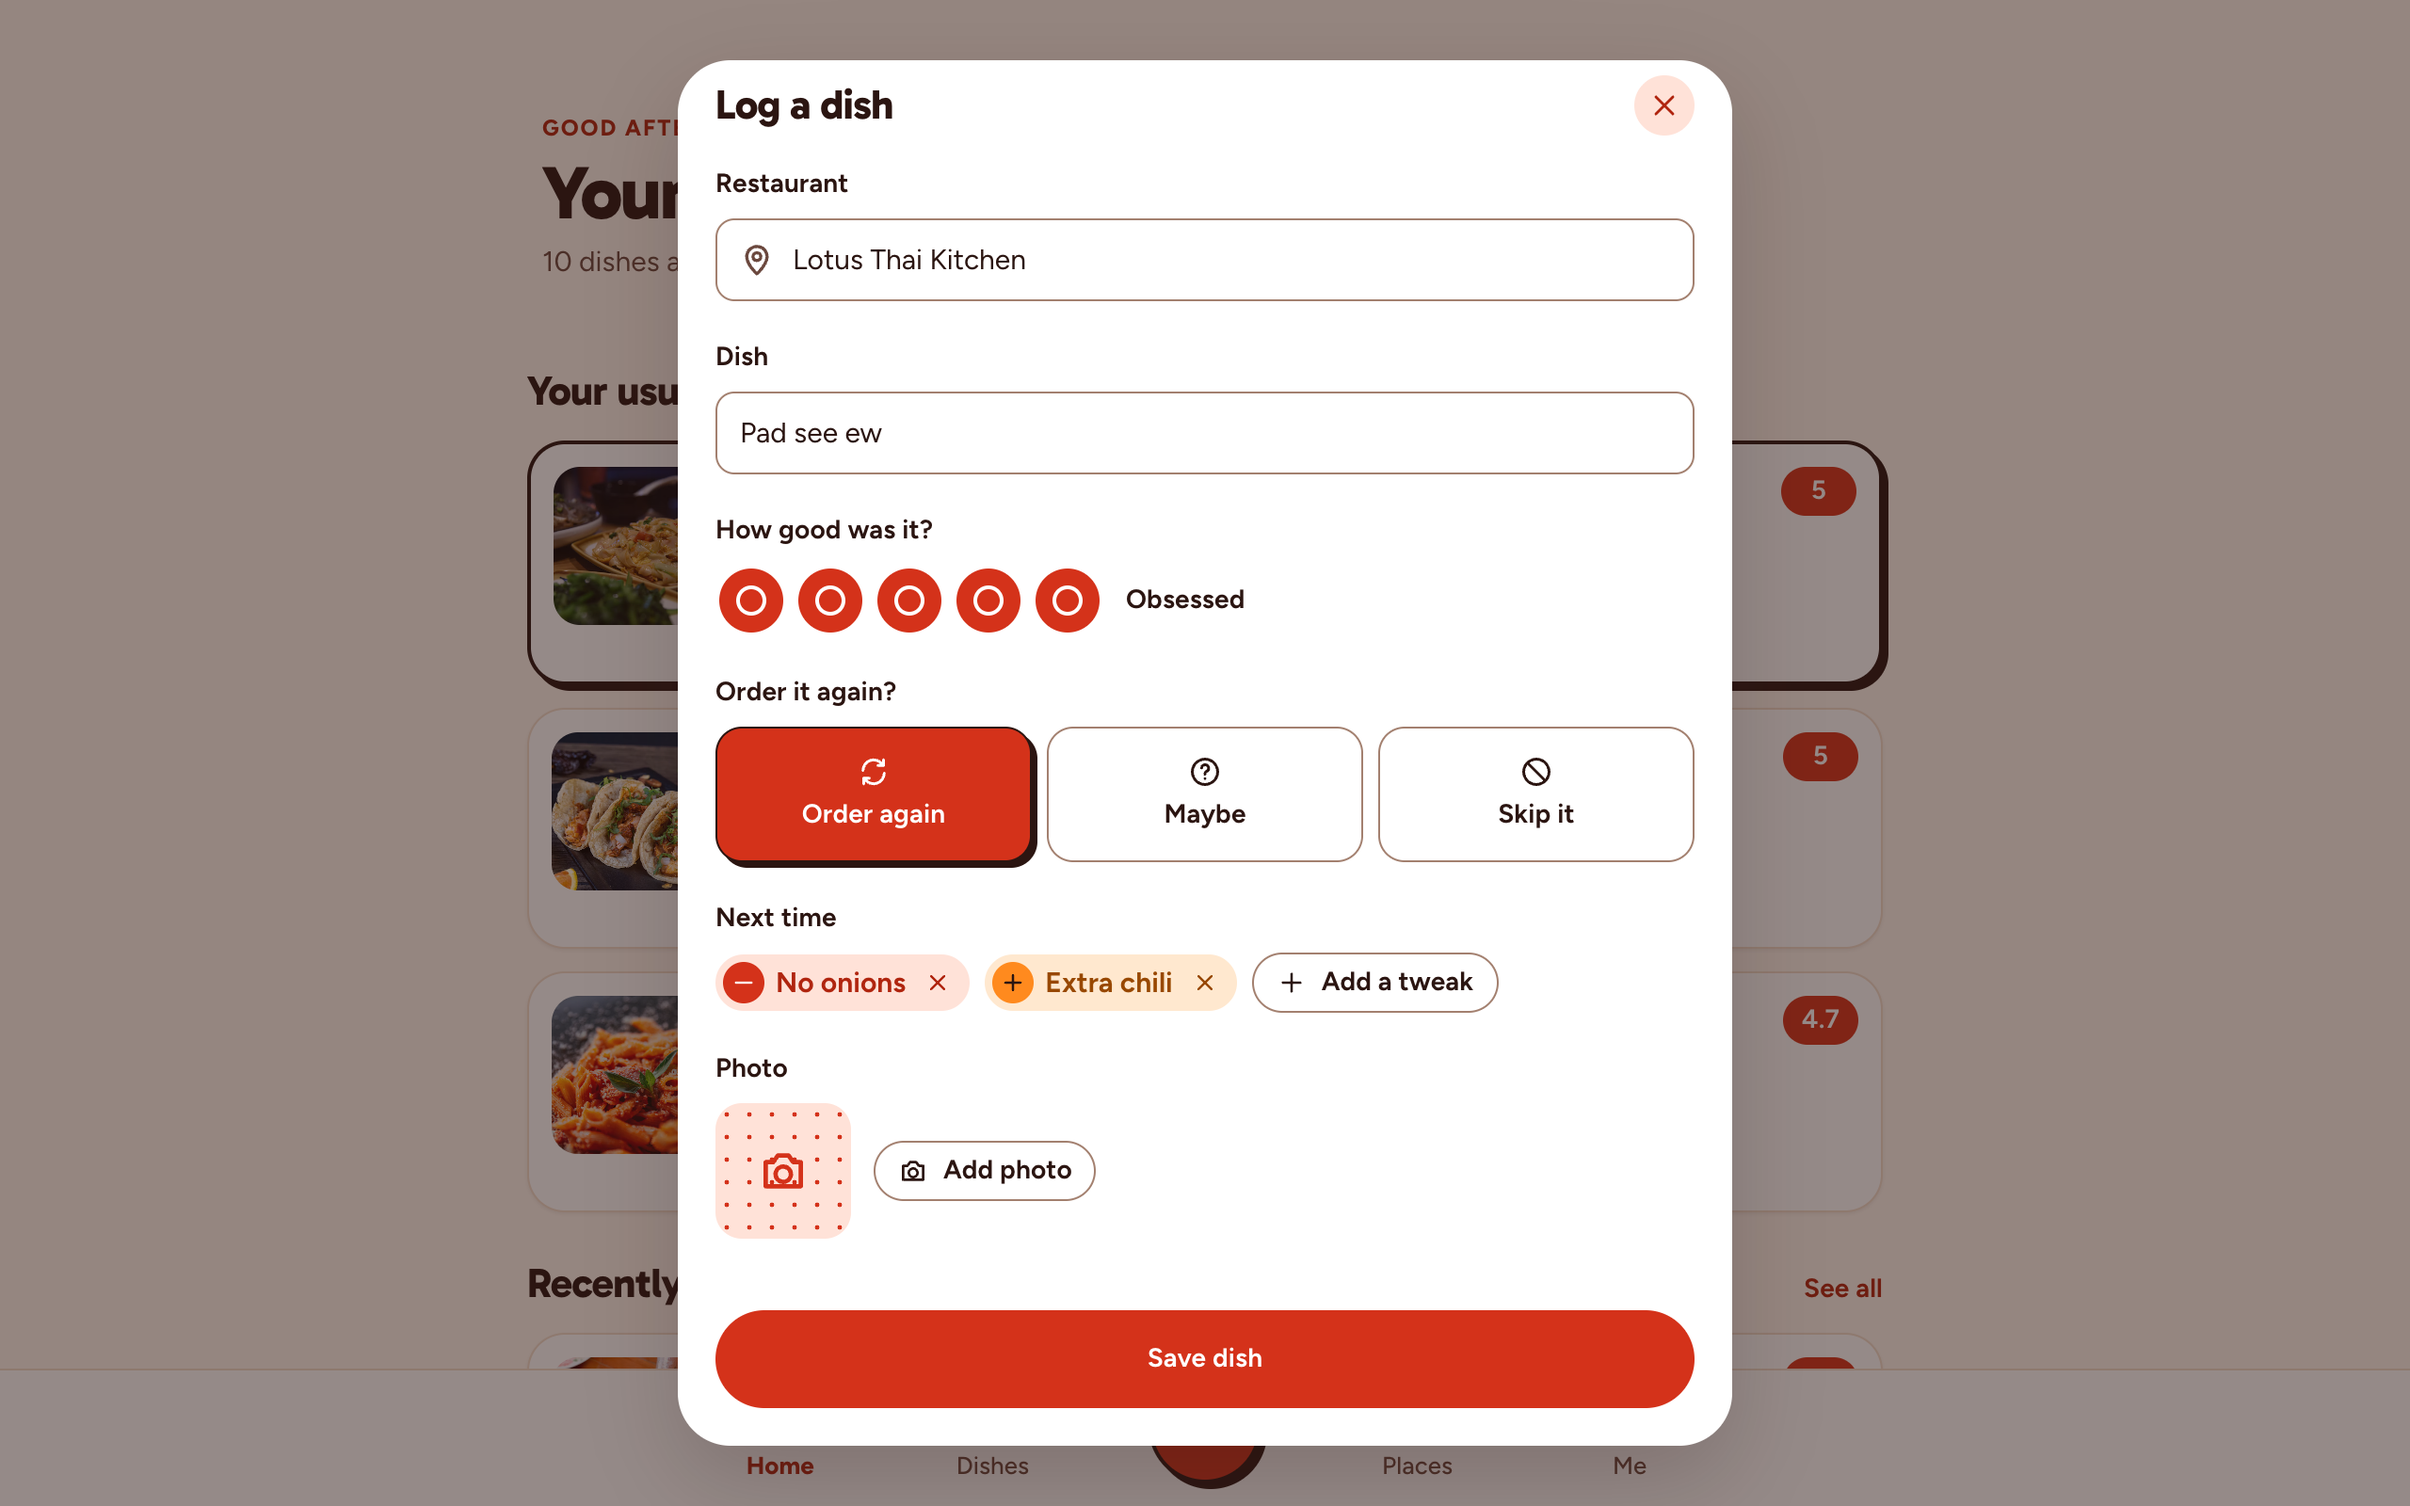
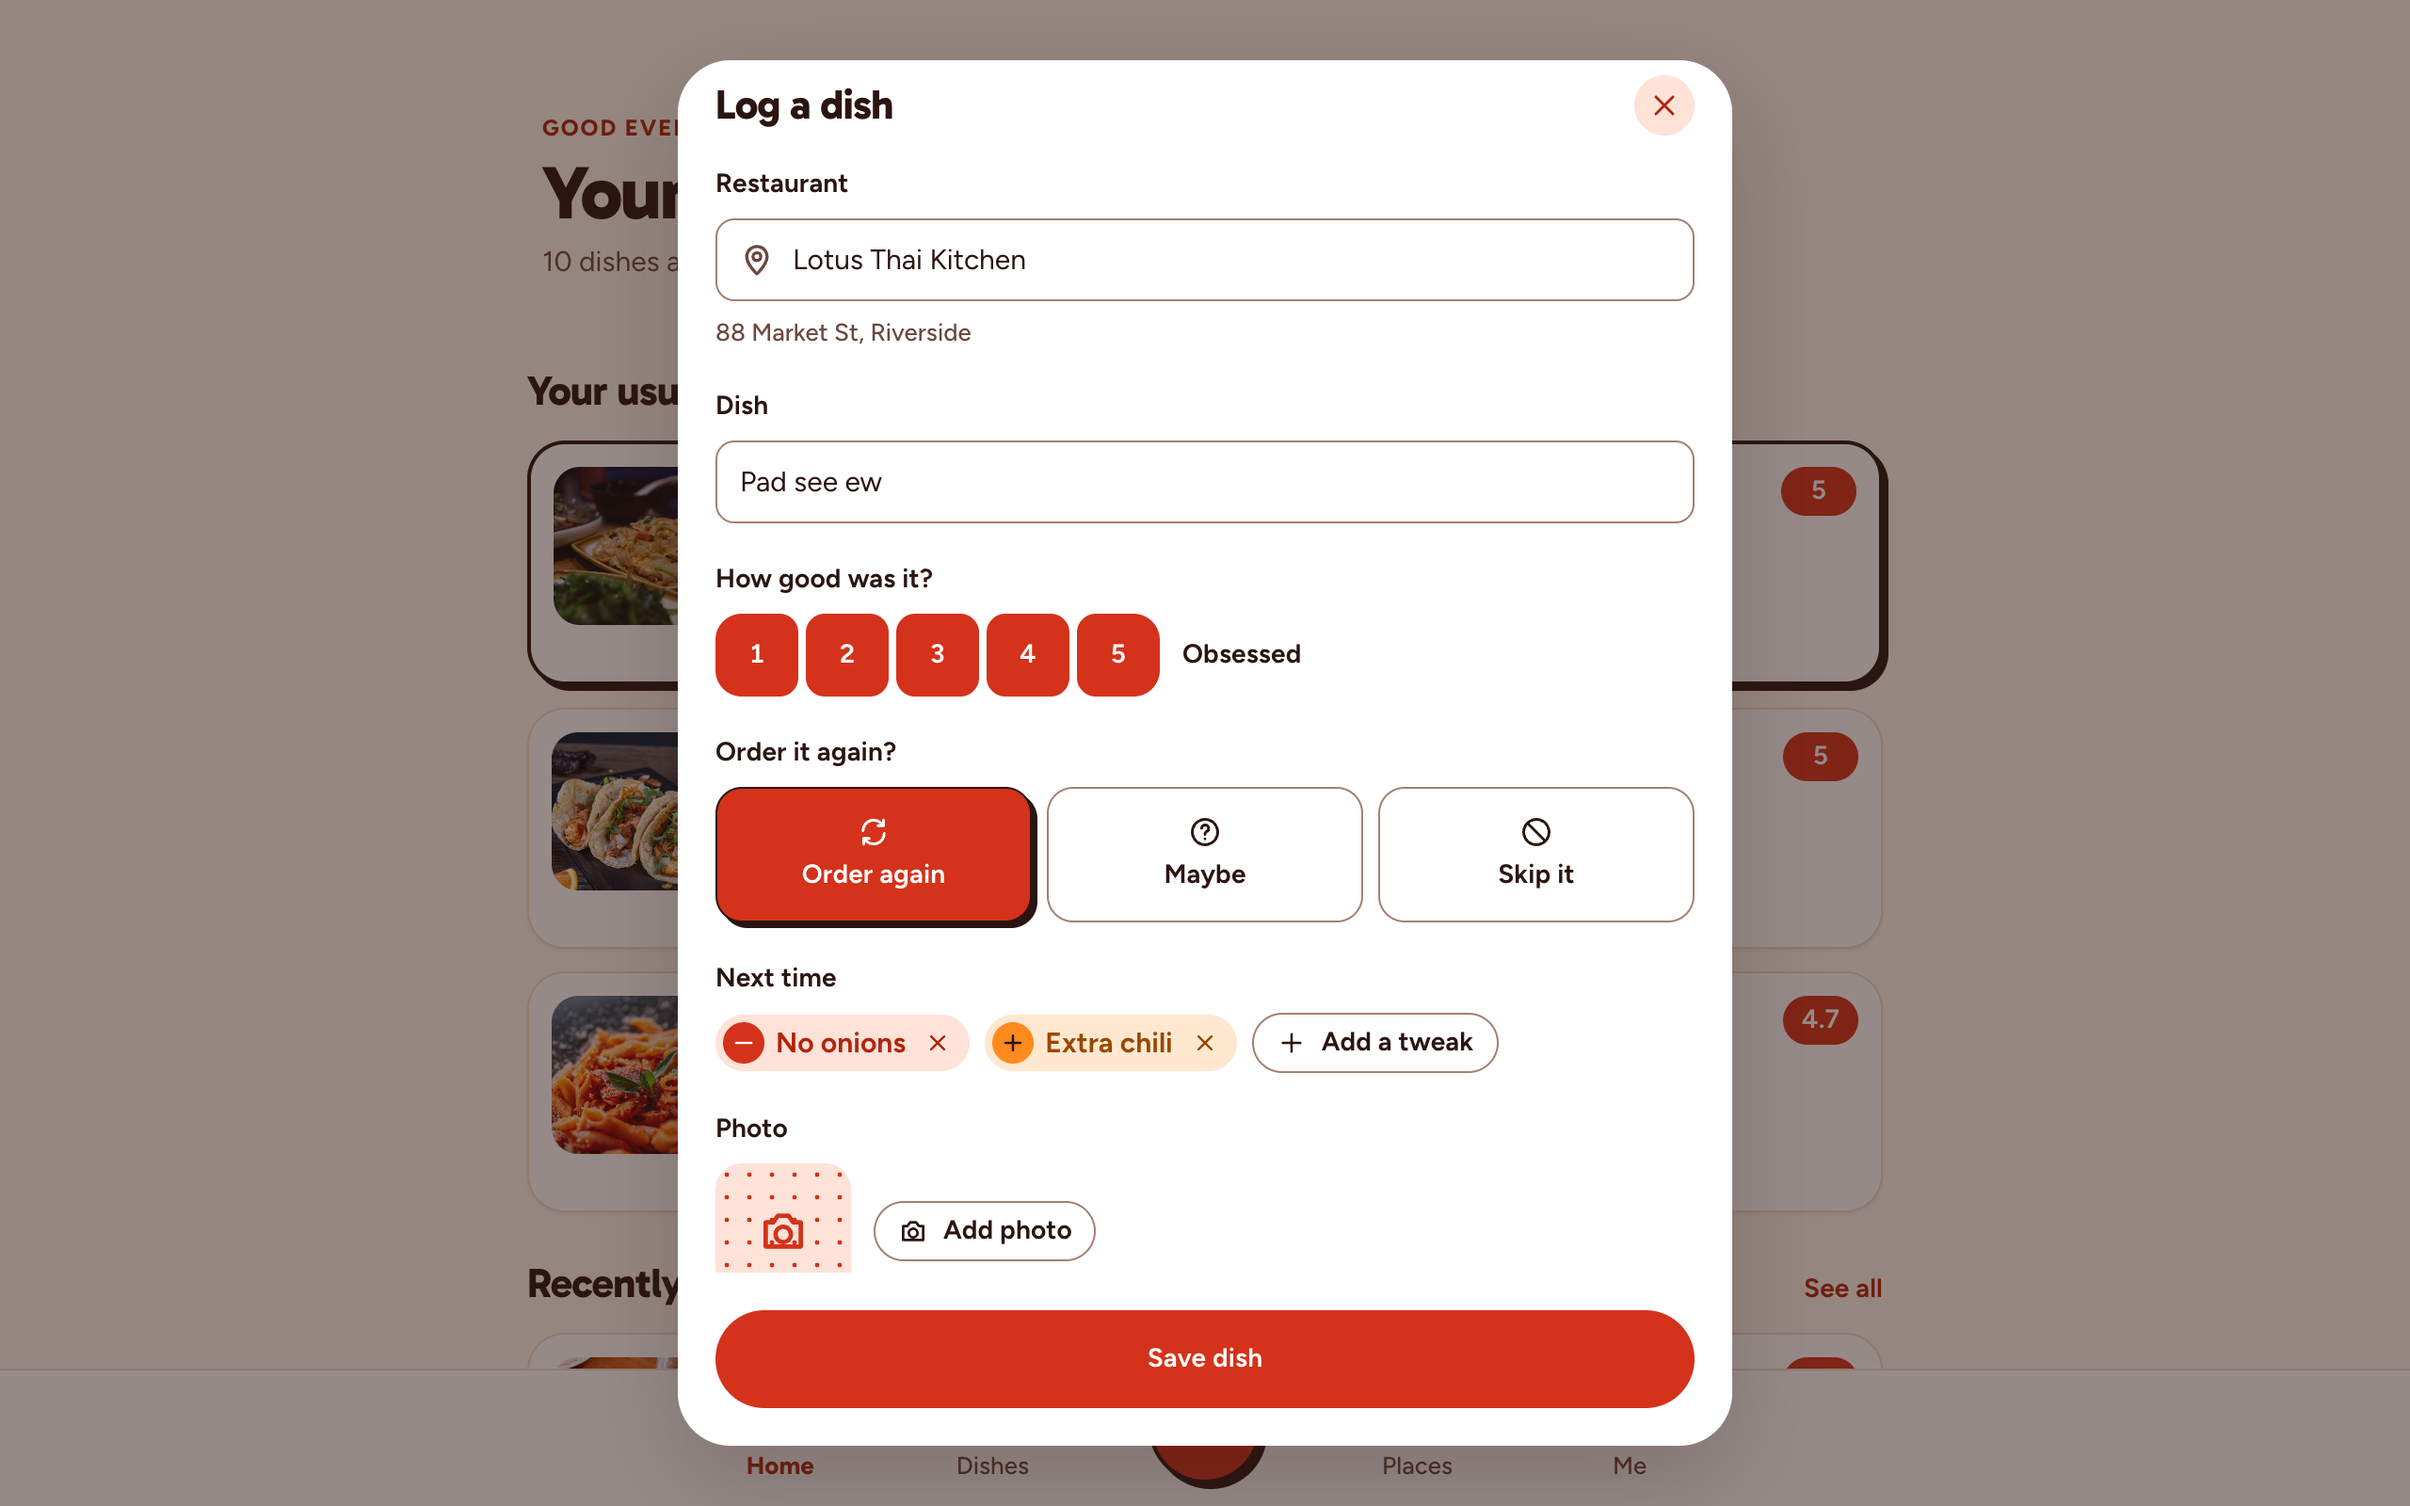
Refresh README screenshots for nearby suggestions and the 1-5 scale (#15)
- Re-captured every screenshot so ratings show the numbered scale and
  places show their addresses (sample data, made-up locations)
- New restaurant-suggestions screenshot: "Your places" and "Nearby"
  with distances; the place search was answered with sample results,
  so no real lookups were made
- README: a "Pick the right restaurant" flow, and PR #11 and #14 in
  the build history

diff --git a/README.md b/README.md
@@ -3,9 +3,9 @@
 **Rate the dish, not the restaurant.** Dishlist remembers what you ordered, how good it was, whether you'd order it again, and exactly how you like it ("no onions, extra chili").
 
 <p align="center">
-  <img src="docs/screenshots/home.png" alt="Home: your usuals, with photos, plate ratings, verdicts and tweaks" width="260">
+  <img src="docs/screenshots/home.png" alt="Home: your usuals, with photos, ratings, verdicts and tweaks" width="260">
   <img src="docs/screenshots/dish.png" alt="A dish page: photo, 4.7 out of 5, Order again, and a Next time note" width="260">
-  <img src="docs/screenshots/log-a-dish.png" alt="The Log a dish sheet with plates, verdict tiles and tweaks" width="260">
+  <img src="docs/screenshots/log-a-dish.png" alt="The Log a dish sheet with a 1 to 5 rating, verdict tiles and tweaks" width="260">
 </p>
 
 A React + Firebase progressive web app: installable, works offline, light and dark themes, with its own design system.
@@ -62,7 +62,15 @@ People who eat out often and keep going back to the places they like: regulars w
 <td width="33%" valign="top"><img src="docs/screenshots/log-a-dish.png" alt="Log a dish sheet"></td>
 <td valign="top">
 
-**Log a dish.** The tomato button in the tab bar opens one sheet: restaurant, dish, rating, verdict, tweaks, photo, price, notes. Restaurant and dish names autocomplete from your history. Type a dish you've had before and its verdict and tweaks fill themselves in. Photos are resized on the phone before upload, and errors are written as fixes ("Pick a restaurant so we can file this dish").
+**Log a dish.** The tomato button in the tab bar opens one sheet: restaurant, dish, rating, verdict, tweaks, photo, price, notes. Dish names autocomplete from your history. Type a dish you've had before and its verdict and tweaks fill themselves in. Photos are resized on the phone before upload, and errors are written as fixes ("Pick a restaurant so we can file this dish").
+
+</td>
+</tr>
+<tr>
+<td valign="top"><img src="docs/screenshots/restaurant-suggestions.png" alt="Restaurant field suggesting your places and nearby Thai restaurants with distances"></td>
+<td valign="top">
+
+**Pick the right restaurant.** Start typing and the restaurant field suggests places you've logged first, then nearby restaurants from OpenStreetMap, nearest first, with their addresses. Picking one saves that exact location, so two branches of the same chain stay apart. Your location is rounded to about a kilometer before it's sent, and typing any name still works offline.
 
 </td>
 </tr>
@@ -149,6 +157,8 @@ This project is an experiment in building software with AI. I set the product di
 | [#6](https://github.com/pmschartz/dishlist/pull/6) | Editing, search and filters, and offline support with a live data subscription. |
 | [#7](https://github.com/pmschartz/dishlist/pull/7) | Installable PWA that opens offline, emulator tests for the security rules, a stats page, and a 64% smaller login bundle. |
 | [#10](https://github.com/pmschartz/dishlist/pull/10) | Redesigned the whole app around the Dishlist design system and its dish-first product ideas. |
+| [#11](https://github.com/pmschartz/dishlist/pull/11) | Got the repo ready to go public: a secret scan of the full history, this README, and screenshots. |
+| [#14](https://github.com/pmschartz/dishlist/pull/14) | Nearby restaurant suggestions from OpenStreetMap, with each meal tied to a specific location, and a clearer numbered 1–5 rating scale. |
 
 **The design system.** Before the redesign, I worked with Claude to create **Dishlist**, a design system covering brand voice, color and type tokens (light and dark), a custom icon set, logos, and about 40 components. Claude Code then ported it into this codebase: `src/design/` holds its tokens and styles, and `src/ui/` holds the components.
 
